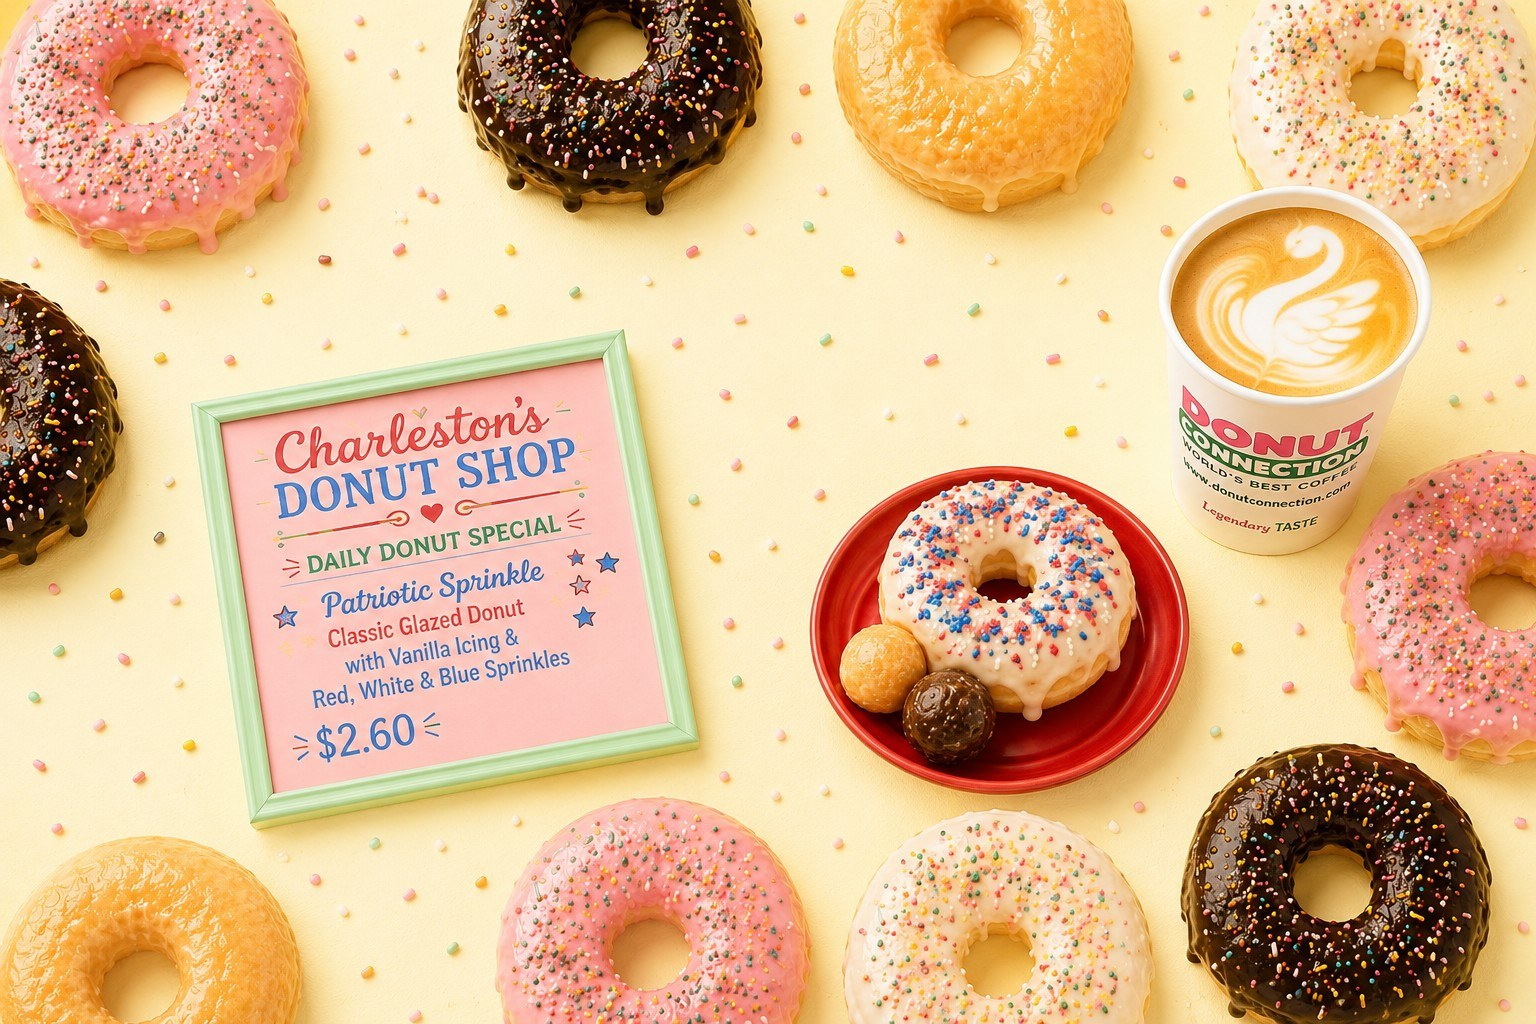
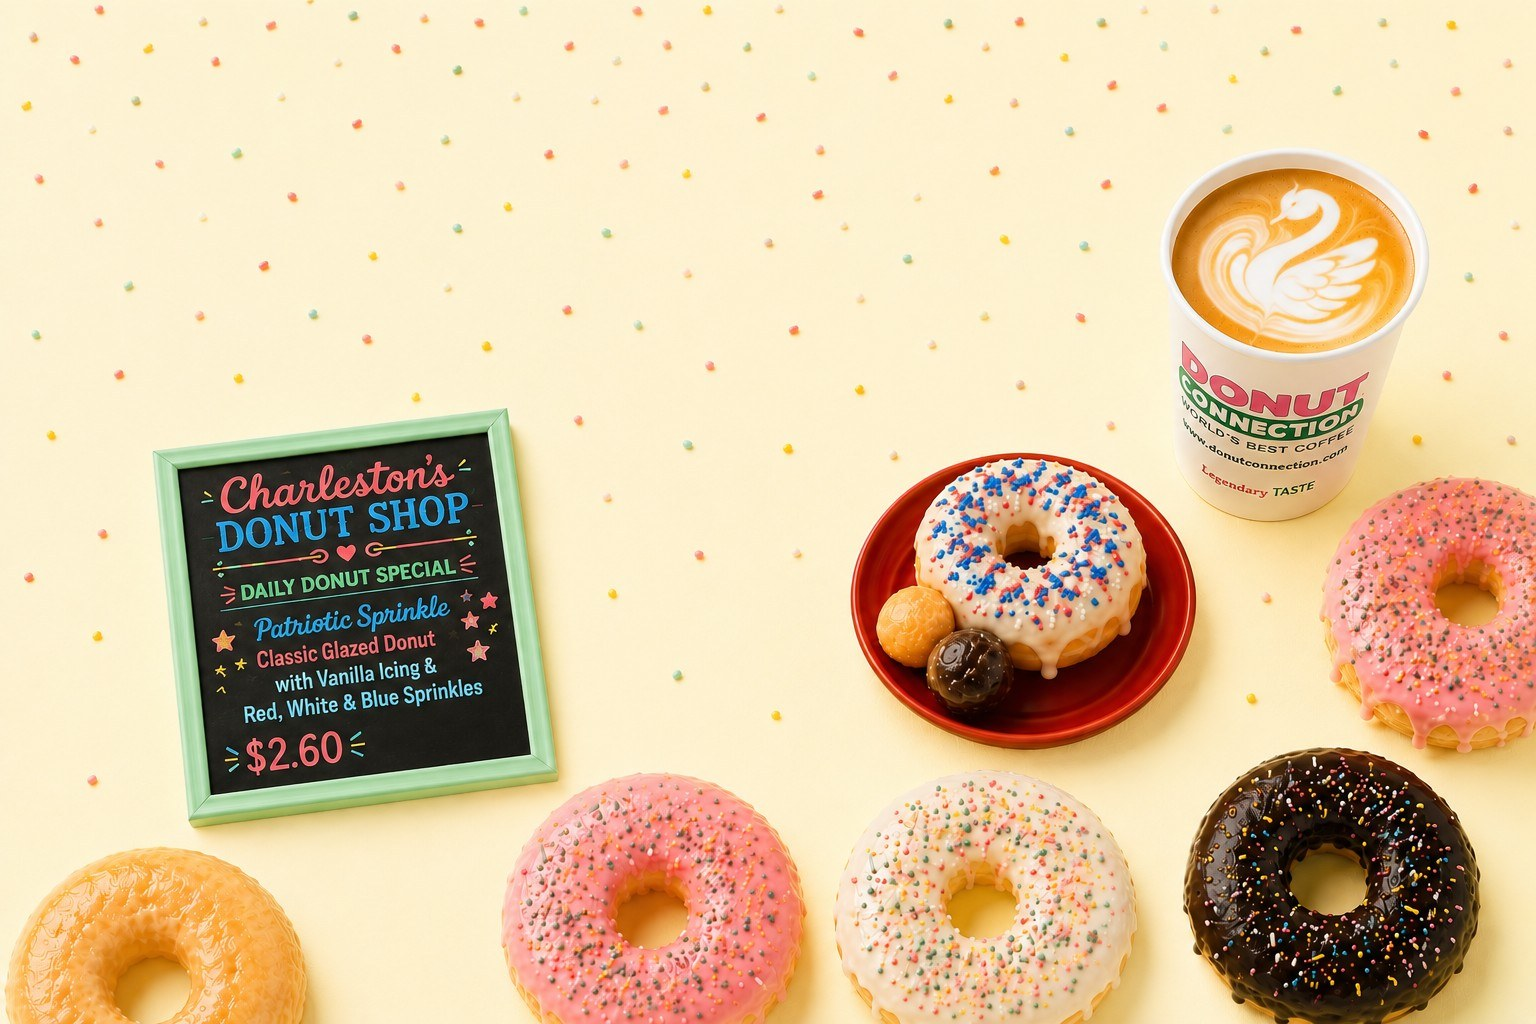
Updates 248

diff --git a/index.html b/index.html
@@ -26,7 +26,7 @@
       <a href="rewards.html">Sweet Rewards</a>
       <a href="about.html">Our Story</a>
       <a href="gallery.html">Gallery</a>
-      <a href="contact.html" class="btn btn-outline">Visit Us</a>
+      <a href="contact.html" class="btn" style="background:#FFB6C1;color:#FFFFFF;font-weight:800;border:2px solid #FFB6C1;box-shadow:0 3px 0 var(--chocolate);">Visit Us</a>
       <a href="index.html#order-ahead" class="btn btn-primary">Order Ahead</a>
     </nav>
   </div>